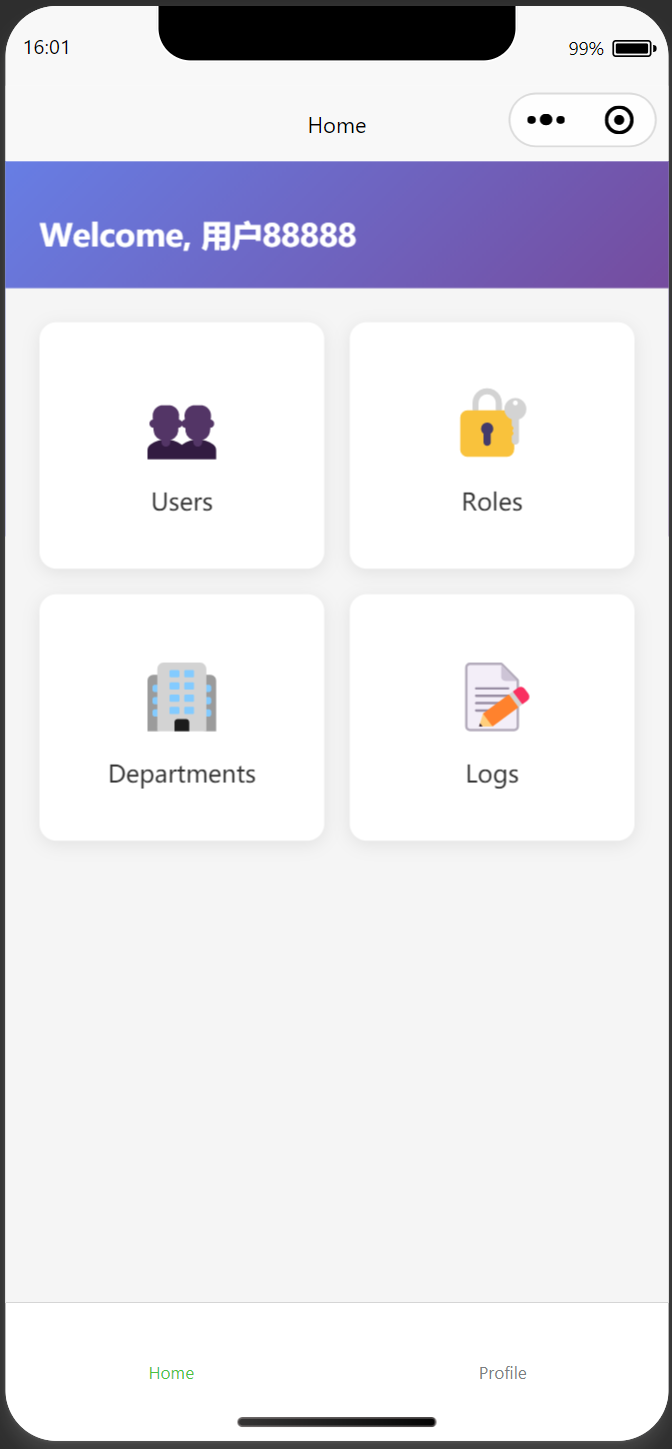
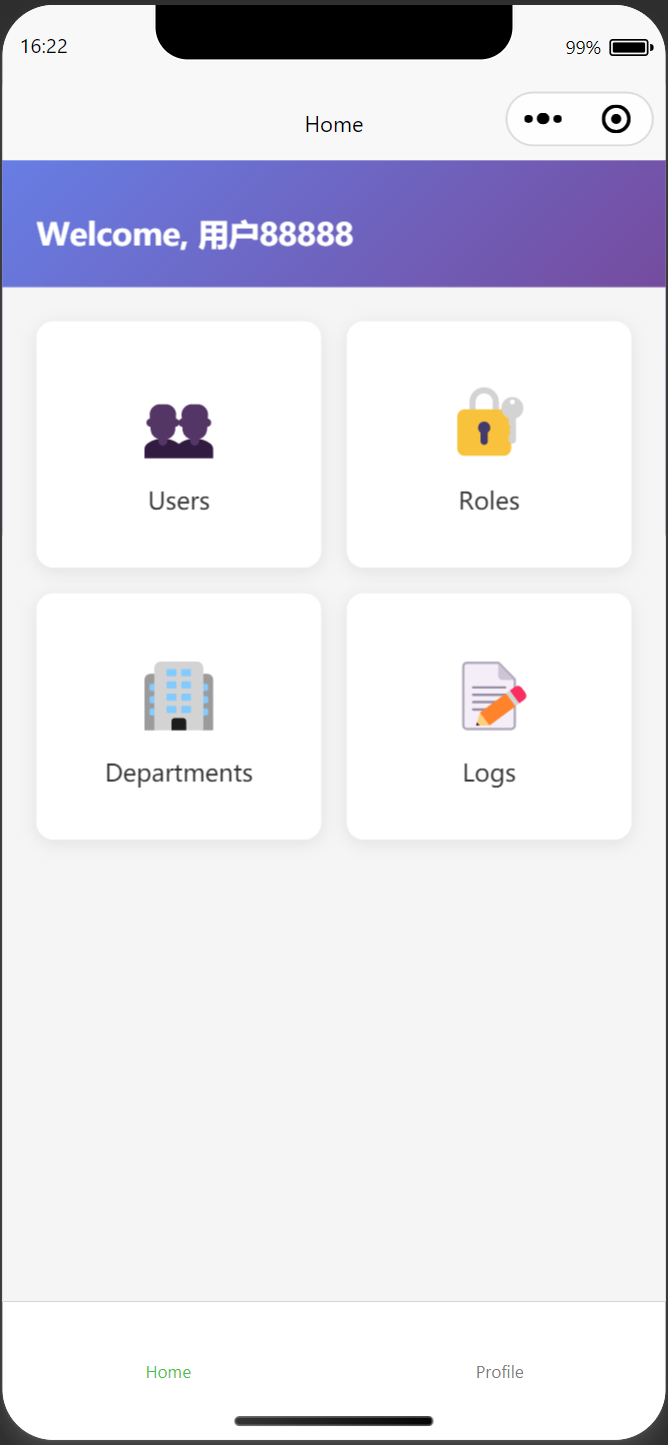
update readme

diff --git a/README.md b/README.md
@@ -120,7 +120,7 @@ npm run build:mp-weixin
 
 ## Preview
 
-<img src="images/index_page.png" width="50%" /><img src="images/profile_page.png" width="50%" />
+<img src="images/index_page.png" width="30%" /><img src="images/profile_page.png" width="30%" />
 
 ## Pages & Features
 
